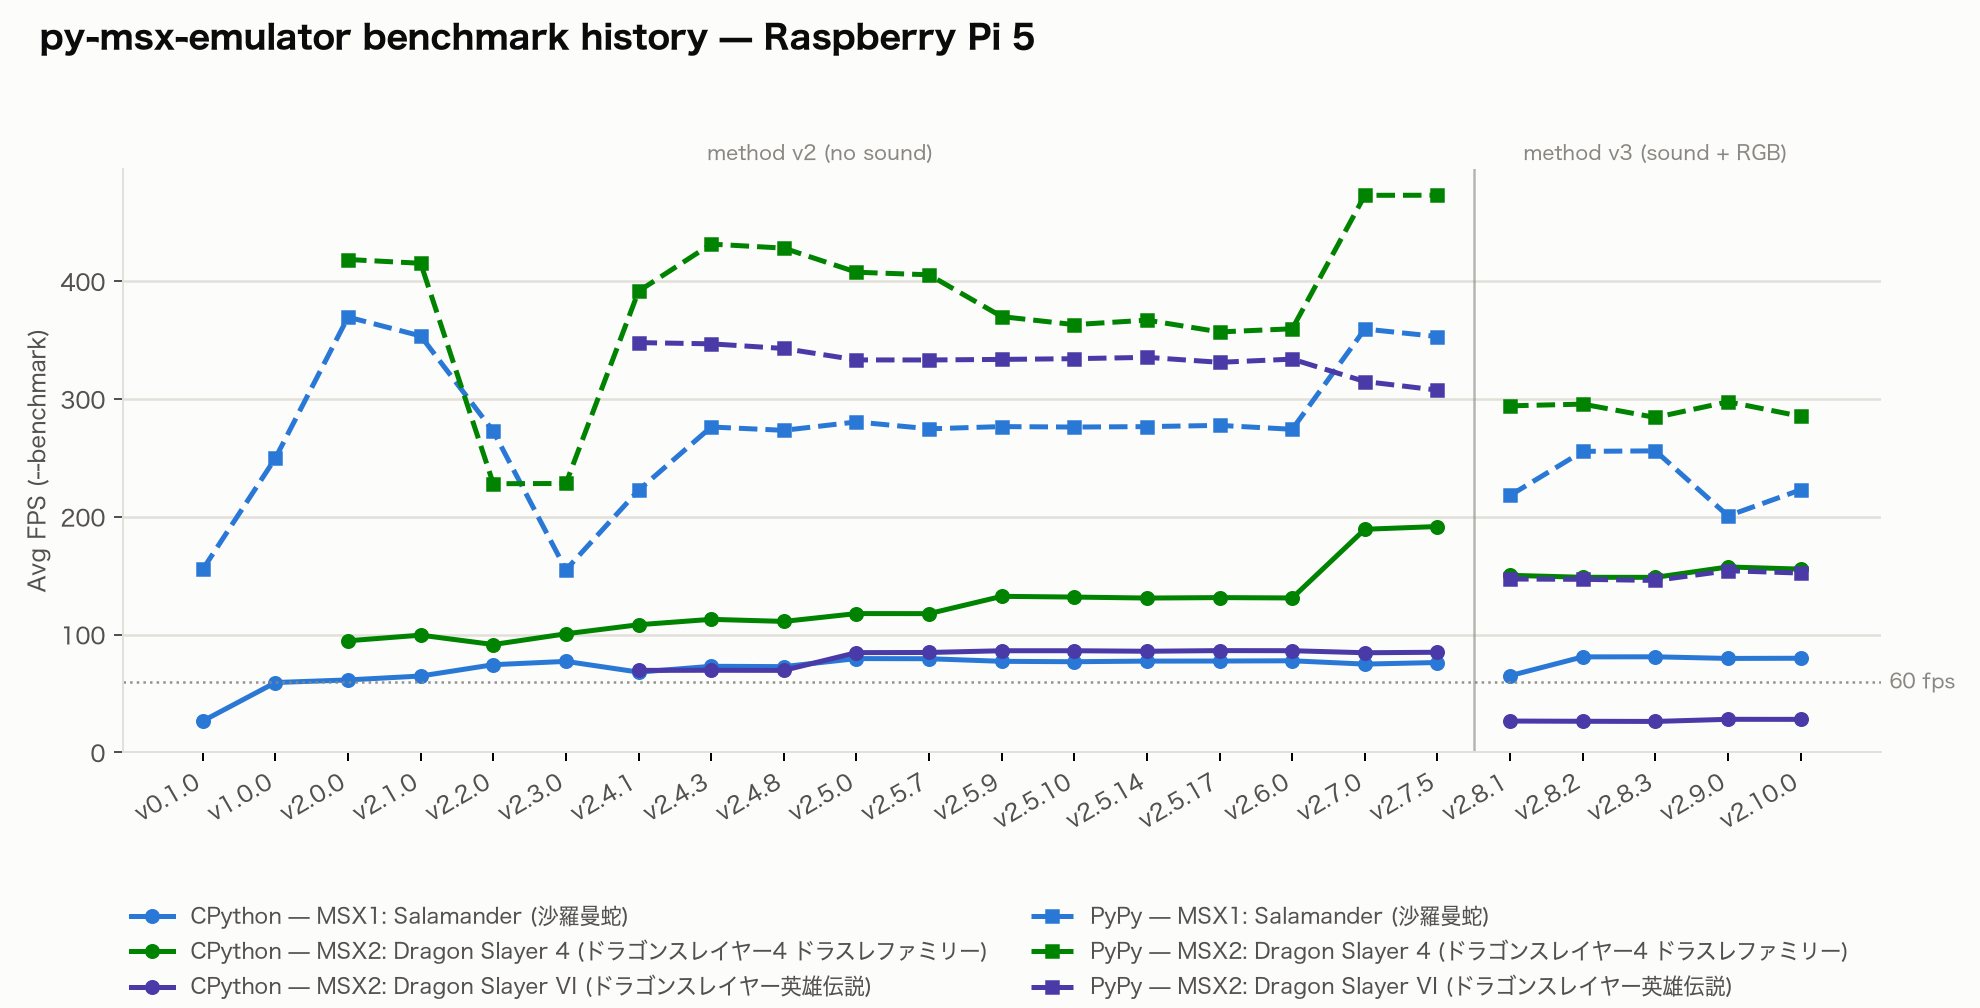
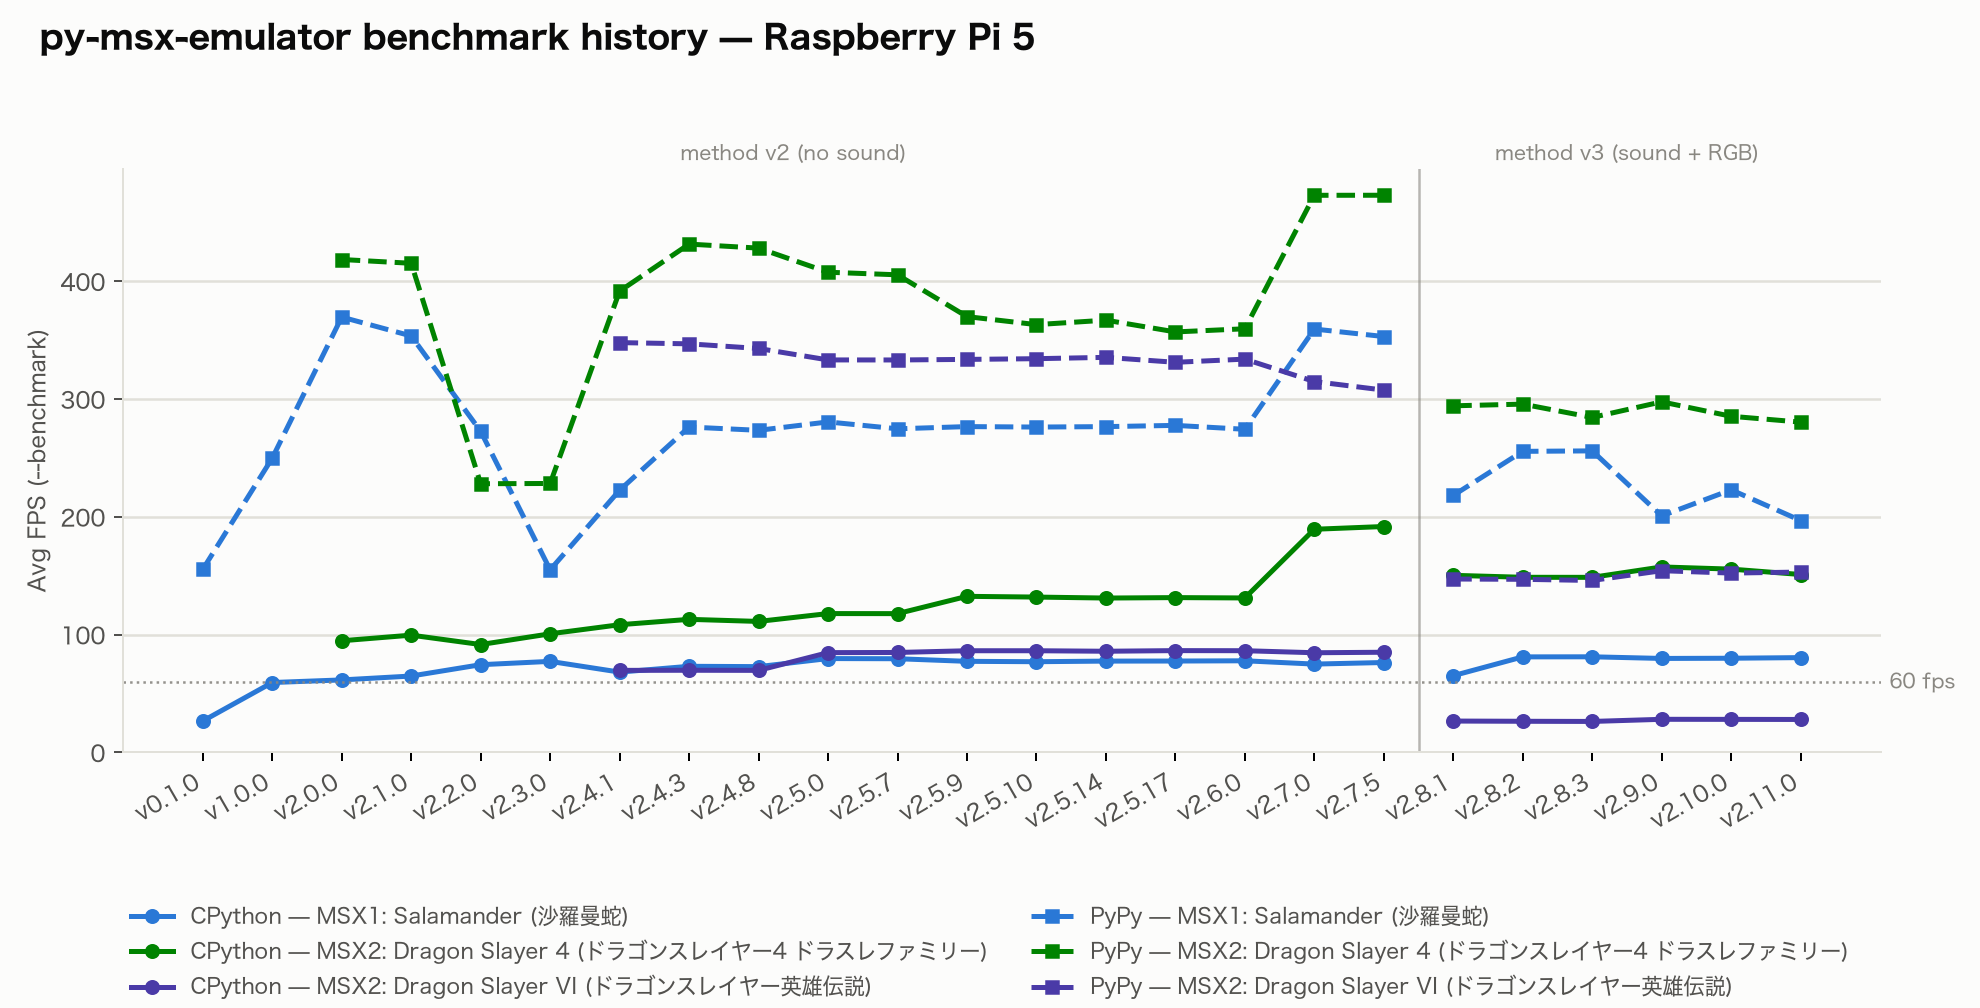
docs(readme): update the benchmark results for v2.11.0

diff --git a/README.md b/README.md
@@ -419,28 +419,28 @@ For each (runtime, game) pair, the author measured 10 runs of 10000 frames each.
 
 | Platform                   | Runtime                      | Game                                                                | Avg FPS (`--benchmark`) | vs. 60 fps target |
 | -------------------------- | ---------------------------- | ------------------------------------------------------------------- | ----------------------- | ----------------- |
-| Apple MacBook Pro (M5 Pro) | CPython 3.12.13              | MSX1: Salamander (CPU+TMS9918+SCC)                                  | 307.66                  | ~5.1×             |
-| Apple MacBook Pro (M5 Pro) | CPython 3.12.13              | MSX2: Dragon Slayer IV (CPU+V9938+PSG)                              | 582.56                  | ~9.7×             |
-| Apple MacBook Pro (M5 Pro) | CPython 3.12.13              | MSX2: Dragon Slayer VI - The Legend of Heroes (CPU+V9938+FDC+FMPAC) | 102.50                  | ~1.7×             |
-| Apple MacBook Pro (M5 Pro) | PyPy 7.3.19 (Python 3.10.16) | MSX1: Salamander (CPU+TMS9918+SCC)                                  | 985.60                  | ~16.4×            |
-| Apple MacBook Pro (M5 Pro) | PyPy 7.3.19 (Python 3.10.16) | MSX2: Dragon Slayer IV (CPU+V9938+PSG)                              | 1366.11                 | ~22.8×            |
-| Apple MacBook Pro (M5 Pro) | PyPy 7.3.19 (Python 3.10.16) | MSX2: Dragon Slayer VI - The Legend of Heroes (CPU+V9938+FDC+FMPAC) | 718.51                  | ~12.0×            |
-| Raspberry Pi 5             | CPython 3.12.13              | MSX1: Salamander (CPU+TMS9918+SCC)                                  | 79.88                   | ~1.3×             |
-| Raspberry Pi 5             | CPython 3.12.13              | MSX2: Dragon Slayer IV (CPU+V9938+PSG)                              | 155.55                  | ~2.6×             |
-| Raspberry Pi 5             | CPython 3.12.13              | MSX2: Dragon Slayer VI - The Legend of Heroes (CPU+V9938+FDC+FMPAC) | 27.97                   | ~0.47×            |
-| Raspberry Pi 5             | PyPy 7.3.19 (Python 3.10.16) | MSX1: Salamander (CPU+TMS9918+SCC)                                  | 222.86                  | ~3.7×             |
-| Raspberry Pi 5             | PyPy 7.3.19 (Python 3.10.16) | MSX2: Dragon Slayer IV (CPU+V9938+PSG)                              | 285.31                  | ~4.8×             |
-| Raspberry Pi 5             | PyPy 7.3.19 (Python 3.10.16) | MSX2: Dragon Slayer VI - The Legend of Heroes (CPU+V9938+FDC+FMPAC) | 152.18                  | ~2.5×             |
+| Apple MacBook Pro (M5 Pro) | CPython 3.12.13              | MSX1: Salamander (CPU+TMS9918+SCC)                                  | 312.06                  | ~5.2×             |
+| Apple MacBook Pro (M5 Pro) | CPython 3.12.13              | MSX2: Dragon Slayer IV (CPU+V9938+PSG)                              | 571.21                  | ~9.5×             |
+| Apple MacBook Pro (M5 Pro) | CPython 3.12.13              | MSX2: Dragon Slayer VI - The Legend of Heroes (CPU+V9938+FDC+FMPAC) | 103.70                  | ~1.7×             |
+| Apple MacBook Pro (M5 Pro) | PyPy 7.3.19 (Python 3.10.16) | MSX1: Salamander (CPU+TMS9918+SCC)                                  | 1021.15                 | ~17.0×            |
+| Apple MacBook Pro (M5 Pro) | PyPy 7.3.19 (Python 3.10.16) | MSX2: Dragon Slayer IV (CPU+V9938+PSG)                              | 1376.34                 | ~22.9×            |
+| Apple MacBook Pro (M5 Pro) | PyPy 7.3.19 (Python 3.10.16) | MSX2: Dragon Slayer VI - The Legend of Heroes (CPU+V9938+FDC+FMPAC) | 730.78                  | ~12.2×            |
+| Raspberry Pi 5             | CPython 3.12.13              | MSX1: Salamander (CPU+TMS9918+SCC)                                  | 80.41                   | ~1.3×             |
+| Raspberry Pi 5             | CPython 3.12.13              | MSX2: Dragon Slayer IV (CPU+V9938+PSG)                              | 150.97                  | ~2.5×             |
+| Raspberry Pi 5             | CPython 3.12.13              | MSX2: Dragon Slayer VI - The Legend of Heroes (CPU+V9938+FDC+FMPAC) | 27.89                   | ~0.46×            |
+| Raspberry Pi 5             | PyPy 7.3.19 (Python 3.10.16) | MSX1: Salamander (CPU+TMS9918+SCC)                                  | 196.81                  | ~3.3×             |
+| Raspberry Pi 5             | PyPy 7.3.19 (Python 3.10.16) | MSX2: Dragon Slayer IV (CPU+V9938+PSG)                              | 280.36                  | ~4.7×             |
+| Raspberry Pi 5             | PyPy 7.3.19 (Python 3.10.16) | MSX2: Dragon Slayer VI - The Legend of Heroes (CPU+V9938+FDC+FMPAC) | 153.04                  | ~2.6×             |
 
-Not every tested combination reaches the raw 60 fps target. The smallest margin is ~0.47×, below the target, on Raspberry Pi 5 with CPython and Dragon Slayer VI. The FM-PAC (YM2413) synthesis is the heaviest per-frame load of the target titles. PyPy increases the same case to ~2.5×. The other Raspberry Pi 5 and CPython combinations reach the target: Salamander at ~1.3× and Dragon Slayer IV at ~2.6×.
+Not every tested combination reaches the raw 60 fps target. The smallest margin is ~0.46×, below the target, on Raspberry Pi 5 with CPython and Dragon Slayer VI. The FM-PAC (YM2413) synthesis is the heaviest per-frame load of the target titles. PyPy increases the same case to ~2.6×. The other Raspberry Pi 5 and CPython combinations reach the target: Salamander at ~1.3× and Dragon Slayer IV at ~2.5×.
 
-A run goes below 60 fps in these cases: CPython on a Raspberry Pi 5 with an FM-PAC title, hardware slower than a Raspberry Pi 5, or a heavier title. The game then runs in slow motion, at a rate proportional to the achieved frame rate. Audio also degrades (clicks or silence). The cause is that the emulator generates samples per frame, but the audio device always consumes them at 44100 Hz. PyPy3 is a drop-in alternative. On the Raspberry Pi 5 it gives about 1.8 to 5.4 times the CPython throughput (see the table above). It is the recommended way to keep headroom on constrained hosts such as a Raspberry Pi.
+A run goes below 60 fps in these cases: CPython on a Raspberry Pi 5 with an FM-PAC title, hardware slower than a Raspberry Pi 5, or a heavier title. The game then runs in slow motion, at a rate proportional to the achieved frame rate. Audio also degrades (clicks or silence). The cause is that the emulator generates samples per frame, but the audio device always consumes them at 44100 Hz. PyPy3 is a drop-in alternative. On the Raspberry Pi 5 it gives about 1.9 to 5.5 times the CPython throughput (see the table above). It is the recommended way to keep headroom on constrained hosts such as a Raspberry Pi.
 
 The PyPy numbers vary more from run to run than the CPython numbers, probably because of OS scheduling and thermal throttling. Treat them as approximate.
 
 ### Benchmark history
 
-Avg FPS (`--benchmark`) from v0.1.0 through v2.10.0, one chart per platform. Solid lines are CPython and dashed lines are PyPy. Up to v2.7.5 the author measured with the same cold-boot method as above, but without sound synthesis (the method up to v2.7.8). From v2.8.1 the author measured with the method above. You cannot compare the numbers of the two methods, so the lines break where the method changes.
+Avg FPS (`--benchmark`) from v0.1.0 through v2.11.0, one chart per platform. Solid lines are CPython and dashed lines are PyPy. Up to v2.7.5 the author measured with the same cold-boot method as above, but without sound synthesis (the method up to v2.7.8). From v2.8.1 the author measured with the method above. You cannot compare the numbers of the two methods, so the lines break where the method changes.
 
 ![Benchmark history on Apple MacBook Pro (M5 Pro)](assets/bench-history-m5pro.png)
 
